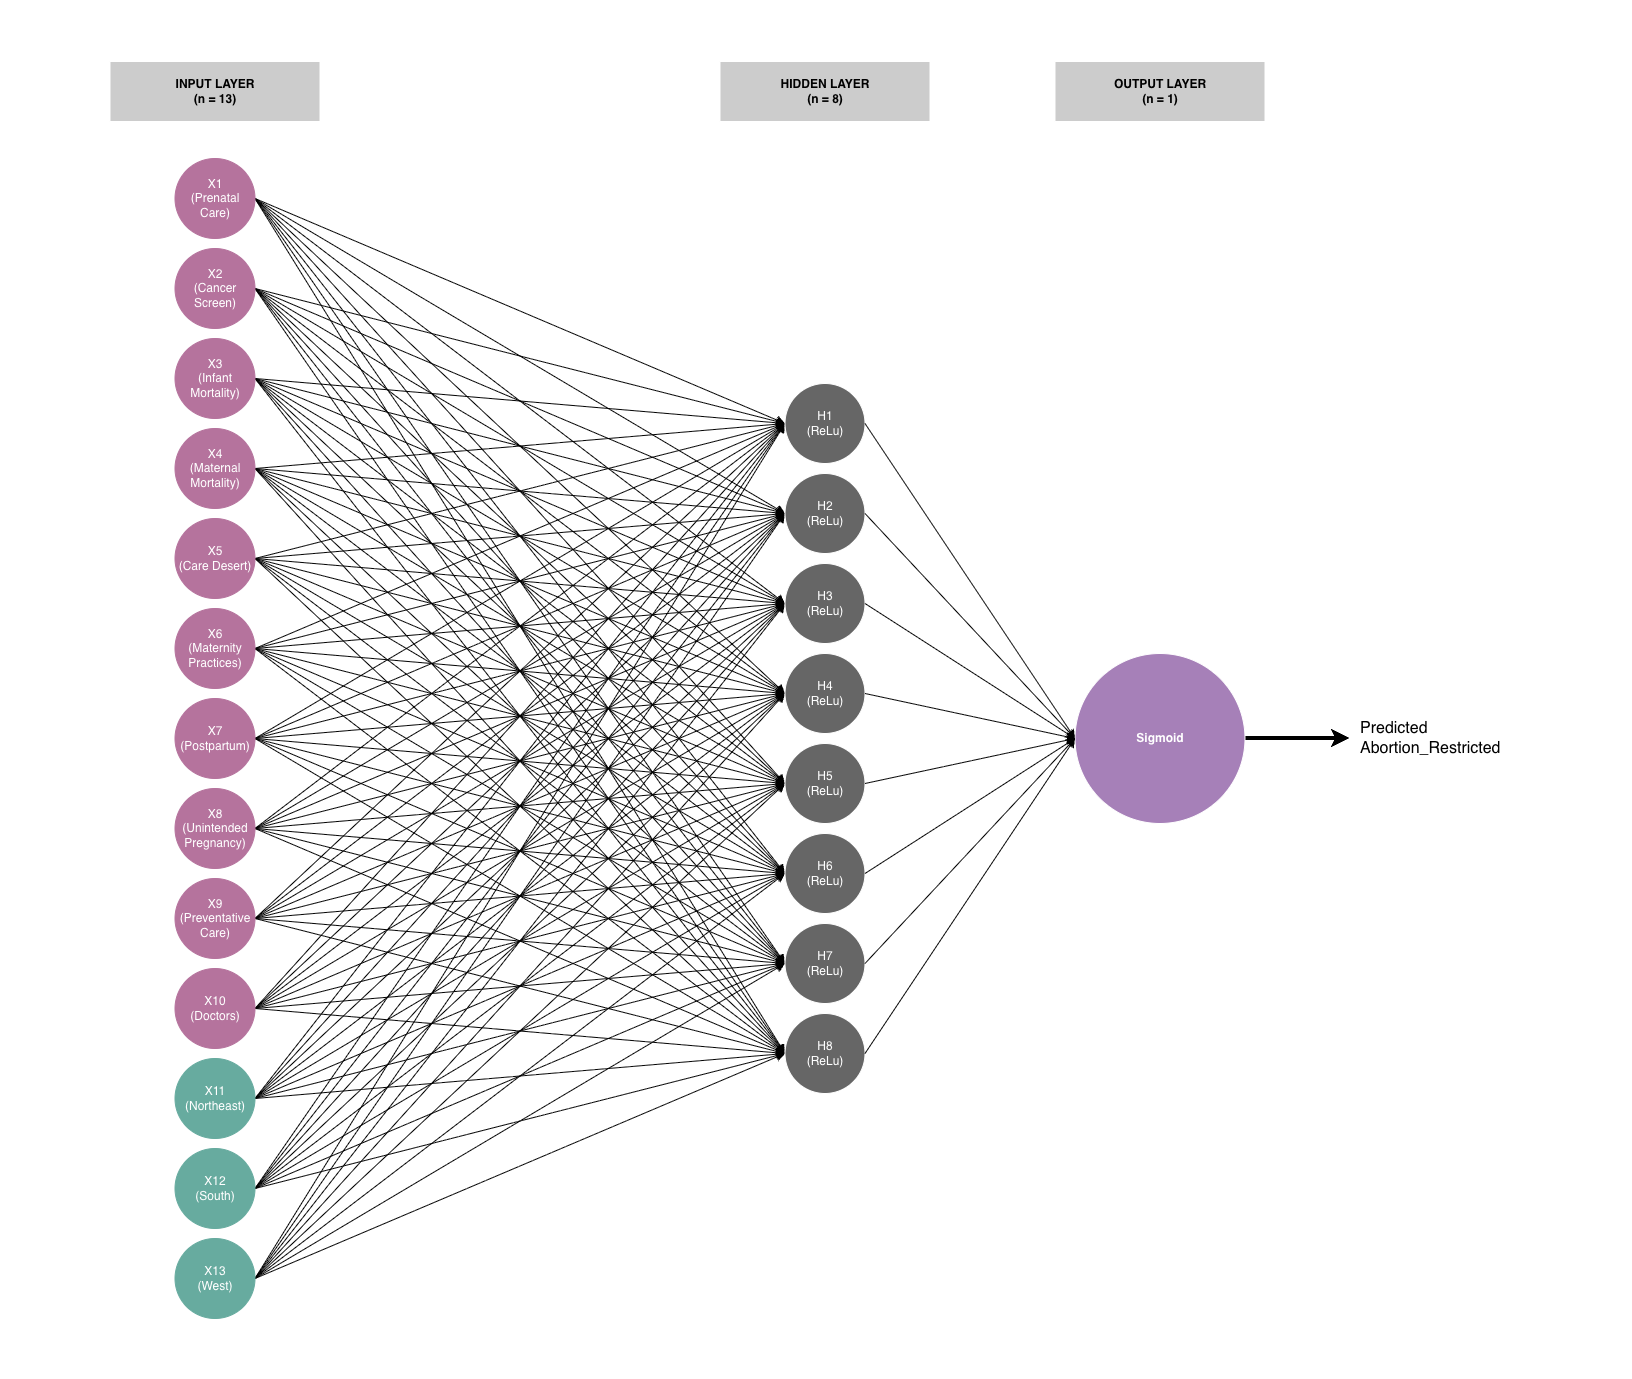
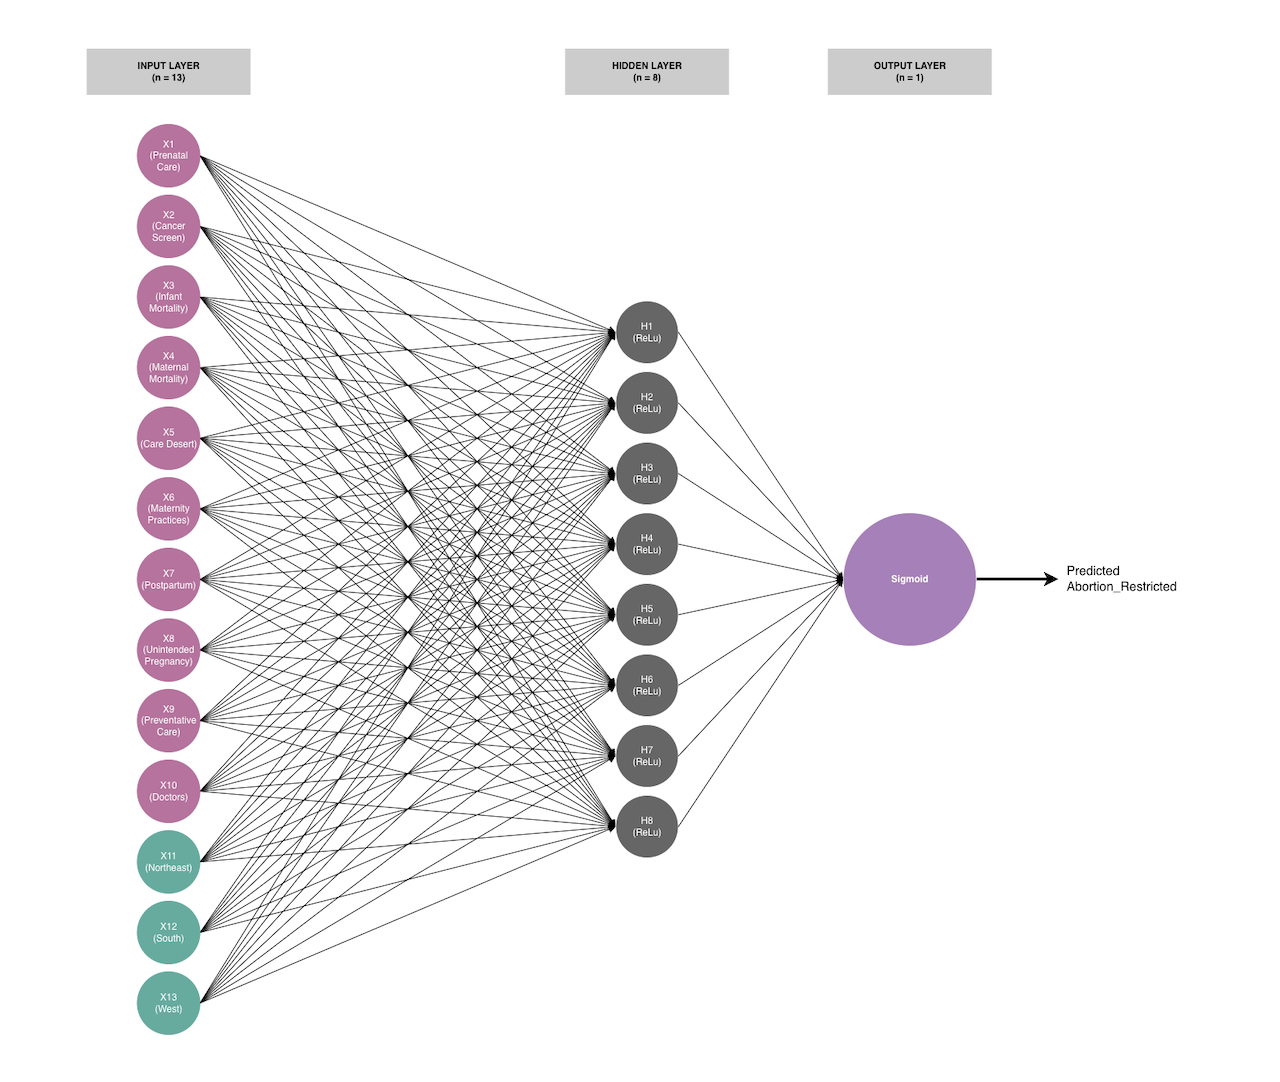
NN results and conclusions sections

diff --git a/src/app/nn.py b/src/app/nn.py
@@ -17,7 +17,9 @@ def render_nn(
         train_data: pd.DataFrame,
         test_data: pd.DataFrame,
         model_code_url: str,
-        results_pipeline: list
+        result_section: dict,
+        results_pipeline: list,
+        conclusion_pipeline: list
 ):
     
     # Overview
@@ -46,12 +48,24 @@ def render_nn(
     # Code/Results
     st.subheader("Model Results")
     st.markdown(f"👾 [View Code]({model_code_url})")
+
+    # first section (architecture, epochs)
+    st.markdown("##### Model Design & Training")
+    st.markdown(result_section.get('intro'))
+    st.image(result_section.get('fig1'), width='content')
+    st.caption("Model Architecture Diagram")
+    st.image(result_section.get('fig2'), width='content')
+    st.caption("Final Training Epochs")
+    st.markdown(result_section.get('text'))
+
     
     for x in results_pipeline:
         st.markdown(f"##### {x.get('name')}")
+        st.markdown(x.get('intro'))
+        
         fig = x.get('fig')
         if isinstance(fig, pd.DataFrame):
-            st.dataframe(fig)
+            st.dataframe(fig, hide_index=True)
             st.caption(x.get('caption'))
         elif isinstance(fig, str):
             st.image(fig, width='content')
@@ -65,6 +79,9 @@ def render_nn(
 
     # Conclusion
     st.subheader('Conclusions')
+    for x in conclusion_pipeline:
+        st.markdown(f"##### {x.get('title')}")
+        st.markdown(x.get('text'))
 
 
 # ==============================================================================
@@ -86,7 +103,8 @@ overview_text_nn = """
 # ==============================================================================
 sample_data_url_nn = "https://github.com/amberteetsel/maternal-health/blob/6e9119dbf12c6714d364bcef9e25ecb8d01aef09/resources/neural_net/nn_preprocessed.csv"
 data_reqs_nn = """
-    In this instance, a neural network is being used to perform supervised learning (classification).
+    In this instance, a neural network is being used to perform supervised learning (classification): the aim is to predict whether
+    a state restricts abortion or not based on its geographic region and underlying health metrics.
     Supervised modeling requires **labeled** data, meaning every row must have a known target outcome (`Abortion_Restricted`).
     The model uses these labels to learn the patterns that differentiate classes. Without labels, the algorithm has no
     comparison point to evaluate its performance against. NNs are highly sensitive to scale of numbers, so health metrics are also
@@ -116,22 +134,74 @@ model_code_url_nn = "https://github.com/amberteetsel/maternal-health"   ## PLACE
 # ==============================================================================
 # Results
 # ==============================================================================
+result_intro_nn = """
+    To evaluate whether a state's structural healthcare ecosystem and geographic positioning act as reliable predictors
+    of its reproductive legislative status, a multi-layer perceptron (MLP) binary classifier was deployed. The model architecture
+    comprises a 13-dimensional input layer, a non-linear hidden layer optimized with 8 ReLu units, and a single-node Sigmoid
+    output layer.
+"""
+nn_architecture = os.path.join(nn_rec, 'NN_Cluster_Architecture.png')
+nn_epochs = os.path.join(nn_rec, 'nn_epochs.png')
+result_epoch_text = """
+    While the network achieved $1.0$ training accuracy (potentially indicating near-complete optimization or overfitting),
+    the validation accuracy remained stable at $93.94\\%$ with flat validation loss of $0.0805$. This minimal generalization gap
+    proves that the model did not merely memorize training row noise. Instead, it demonstrates that the combined structural
+    signature of geographic regions and maternal healthcare metrics provides a distinct, mathematically separable boundary
+    between protected and restricted policy environments.
+"""
+result_section_nn = {
+    'intro': result_intro_nn,
+    'fig1': os.path.join(nn_rec, 'NN_Cluster_Architecture.png'),
+    'fig2': os.path.join(nn_rec, 'nn_epochs.png'),
+    'text': result_epoch_text
+}
+
+
+report_intro_nn = """
+    The trained multi-layer perceptron binary classifier was evaluated using an independent test set comprising $20\\%$ of the
+    overall data ($n=56$). The network achieved a **remarkable final classification accuracy of $98.21\\%$** with an overall macro
+    F1-score of $0.98$. This strong performance on unseen data confirms that the network did not overfit or memorize training noise,
+    but instead captured structural macro-trends.
+"""
 report_text_nn = """
-    place
+    The minimal generalization gap between the final training cycle accuracy ($1.0$, Loss $=0.005$) and the validation/testing
+    set demonstrates that the architecture did not succumb to overfitting or absolute row memorization. The model successfully mapped
+    a robust, generalizable multi-dimensional decision boundary across the structural features (health statistics and geography).
+"""
+cm_intro_nn = """
+    The empirical test set distribution reveals near-perfect class separation along the network's optimized decision boundary,
+    mapping the 56 test instances as follows:
+
+    * **True Negatives (22):** The network correctly identified 22 state-year records as legally **Not Restricted** based entirely
+    on clinical metrics and geographic region.
+    * **True Positives (33):** The network correctly identified 33 state-year records as legally **Restricted**, accurately pairing
+    institutional policy environments with downstream health infrastructure stress.
+    * **False Positives (0):** The network achieved a perfect Precision score ($1.0$) for the restricted class. It never misclassifies
+    a legally protected record into the restricted tier, highlighting that high-quality healthcare environments remain
+    structurally distinct from restricted landscapes.
+    * **False Negatives (1):** The network committed exactly one classification error across the entire test matrix, misclassifying
+    a legally **Restricted** state-year as **Not Restricted** (Recall $=0.97$).
 """
 cm_text_nn = """
-    confusion matrix jksdfghjkadfg
+    From a structural standpoint, the single false negative represents an informative edge-case rather than a failure of the 
+    network. The specific record in question is 2018 Alaska. Based on the data, this is an 'understandable' misclassification 
+    because Alaska is somewhat of an anomaly of a state; its unique geography and low population means it is necessarily a very 
+    different structural environment than the lower 48. In this case, despite legal restrictions on paper, the underlying healthcare
+    infrastructure maintained baseline structural resilience matching the profile of the Not Restricted class.
 """
 results_nn = [
+
     {
         'name': 'Quantitative Model Performance',
+        'intro': report_intro_nn,
         'fig': pd.read_csv(os.path.join(nn_rec, 'classification_report_nn.csv')),
         'text': report_text_nn,
-        'caption': "Neural Network Classification Report"
+        'caption': "Test Evaluation Classification Report"
     },
 
     {
         'name': 'Confusion Matrix Diagnostics',
+        'intro': cm_intro_nn,
         'fig': os.path.join(nn_rec, 'nn_confusion_matrix.png'),
         'text': cm_text_nn,
         'caption': "The confusion matrix for test evaluation shows extremely strong model performance."
@@ -141,3 +211,30 @@ results_nn = [
 # ==============================================================================
 # Conclusion
 # ==============================================================================
+q1_text = """
+    Yes. By integrating one-hot encoded U.S. Census Bureau regional dummy variables (Northeast, Midwest, South, West) into
+    the network's input features, the model's capacity to draw a clean boundary demonstrates that reproductive policy shifts
+    are not geographically isolated anomalies. Rather, the legal frameworks run deeply across established macro-regional lines, 
+    thus allowing the network to use spatial location as an anchor for its weights.
+"""
+q2_text = """
+    Yes. The fact that an algorithm can achieve a $98.21\\%$ accurate classification rate using *only* clinical health outcomes 
+    and geographic regions proves that healthcare disparities do not merely correlate with political environments: they serve
+    as a definitive, multi-dimensional signature of those environments.
+
+    The structural gaps across metrics like `Maternity Care Desert`, `Inadequate Prenatal Care`, and `Infant Mortality` are wide
+    enough to form a mathematically separable boundary. This confirms that a state's legal/political framework regarding
+    reproductive rights is closely bound to systemic, predictable disparities in the quality, accessibility, and outcomes of 
+    maternal/infant care.
+"""
+conclusion_pipeline_nn = [
+    {
+        'title': "Can distinct clusters of states/geographic regions be identified based on reproductive policies?",
+        'text': q1_text
+    },
+
+    {
+        'title': "Do clusters reliably predict disparities in maternal health outcomes?",
+        'text': q2_text
+    }
+]

diff --git a/src/models/nn_policy.py b/src/models/nn_policy.py
@@ -1,7 +1,10 @@
+# import first to fix mac bug
+import tensorflow as tf
+tf.config.set_visible_devices([], 'GPU')
+
 import os
 import pandas as pd
 import numpy as np
-import tensorflow as tf
 from tensorflow.keras import layers, models
 from sklearn.model_selection import train_test_split
 from sklearn.preprocessing import StandardScaler
@@ -126,6 +129,7 @@ early_stop = tf.keras.callbacks.EarlyStopping(
 )
 
 # Training
+print('Starting model training...')
 history = nn_model.fit(
     X_train_scaled, y_train,
     validation_split = 0.15,
@@ -134,6 +138,7 @@ history = nn_model.fit(
     batch_size = 16,
     verbose=1
 )
+print('Success! Model training complete.')
 
 # Test Evaluation & Confusion Matrix
 test_loss, test_acc = nn_model.evaluate(X_test_scaled, y_test, verbose=0)
@@ -142,21 +147,6 @@ test_loss, test_acc = nn_model.evaluate(X_test_scaled, y_test, verbose=0)
 y_pred_probs = nn_model.predict(X_test_scaled)
 ## convert probs into binary classification
 y_pred_classes = (y_pred_probs > 0.5).astype(int).flatten()
-
-# # Temporary df from unscaled test features
-# test_analysis = X_test.copy()
-# test_analysis['state'] = df.loc[X_test.index, 'state']
-# test_analysis['year'] = df.loc[X_test.index, 'year']        # get original ID cols
-# test_analysis['actual_policy'] = y_test.astype(int)
-# test_analysis['predicted_policy'] = y_pred_classes
-# test_analysis['confidence_score'] = y_pred_probs
-# misclassified_row = test_analysis[test_analysis['actual_policy'] != test_analysis['predicted_policy']]
-
-# # Display the culprit
-# print("\n=================== MISCLASSIFIED STATE-YEAR ===================")
-# import IPython
-# display(misclassified_row[['state', 'year', 'actual_policy', 'predicted_policy', 'confidence_score'] + health_cols])
-# print("\n")
 
 # CONFUSION MATRIX
 cm = confusion_matrix(y_test, y_pred_classes)
@@ -181,4 +171,6 @@ cdf = cdf.rename(columns={"0.0": 'Target Class: Protected (0)',
 cdf = cdf.iloc[:3, [0,1,3]]
 cdf.index = cdf.index.str.capitalize()
 cdf = round(cdf,4)
-cdf.to_csv(os.path.join(nn_rec, "classification_report_nn.csv"))
+cdf = cdf.reset_index()
+cdf = cdf.rename(columns={'index': 'Evaluation Metric'})
+cdf.to_csv(os.path.join(nn_rec, "classification_report_nn.csv"), index=False)

diff --git a/src/app/app.py b/src/app/app.py
@@ -534,7 +534,9 @@ with t4:
             train_data=nn.train_data_nn,
             test_data=nn.test_data_nn,
             model_code_url=nn.model_code_url_nn,
-            results_pipeline=nn.results_nn
+            result_section=nn.result_section_nn,
+            results_pipeline=nn.results_nn,
+            conclusion_pipeline=nn.conclusion_pipeline_nn
         )
 
 
